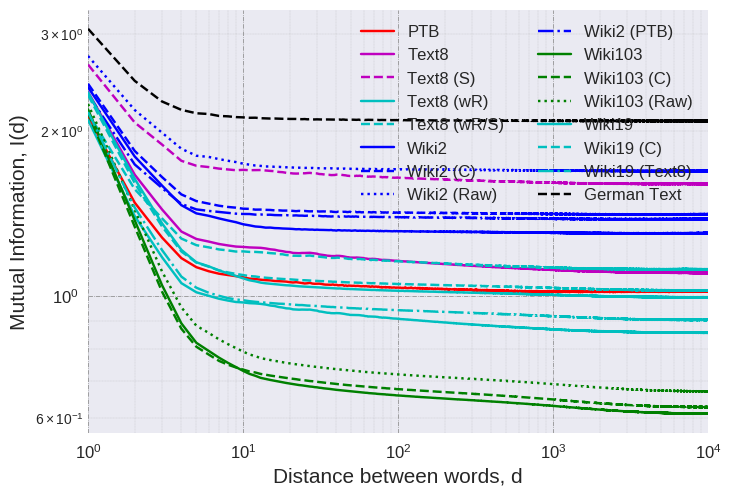
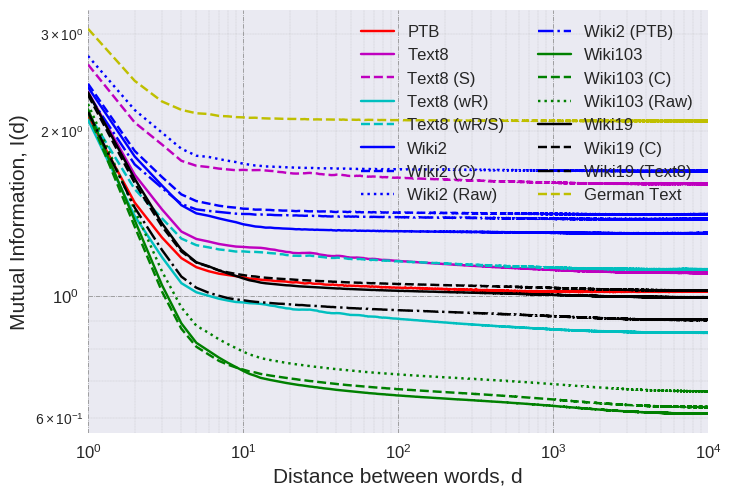
Up image

diff --git a/paper_related/plot_words.py b/paper_related/plot_words.py
@@ -62,10 +62,10 @@ with plt.style.context(('seaborn')):
     plt.loglog(np.arange(1,len(all_mi[9])+1), all_mi[9], "g-", label="Wiki103")
     plt.loglog(np.arange(1,len(all_mi[10])+1), all_mi[10], "g--", label="Wiki103 (C)")
     plt.loglog(np.arange(1,len(all_mi[11])+1), all_mi[11], "g:", label="Wiki103 (Raw)")
-    plt.loglog(np.arange(1,len(all_mi[12])+1), all_mi[12], "c-", label="Wiki19")
-    plt.loglog(np.arange(1,len(all_mi[13])+1), all_mi[13], "c--", label="Wiki19 (C)")
-    plt.loglog(np.arange(1,len(all_mi[14])+1), all_mi[14], "c-.", label="Wiki19 (Text8)")
-    plt.loglog(np.arange(1,len(all_mi[15])+1), all_mi[15], "k--", label="German Text")
+    plt.loglog(np.arange(1,len(all_mi[12])+1), all_mi[12], "k-", label="Wiki19")
+    plt.loglog(np.arange(1,len(all_mi[13])+1), all_mi[13], "k--", label="Wiki19 (C)")
+    plt.loglog(np.arange(1,len(all_mi[14])+1), all_mi[14], "k-.", label="Wiki19 (Text8)")
+    plt.loglog(np.arange(1,len(all_mi[15])+1), all_mi[15], "y--", label="German Text")
 
     plt.tick_params(labelsize='large', width=5)
     plt.grid(True)
